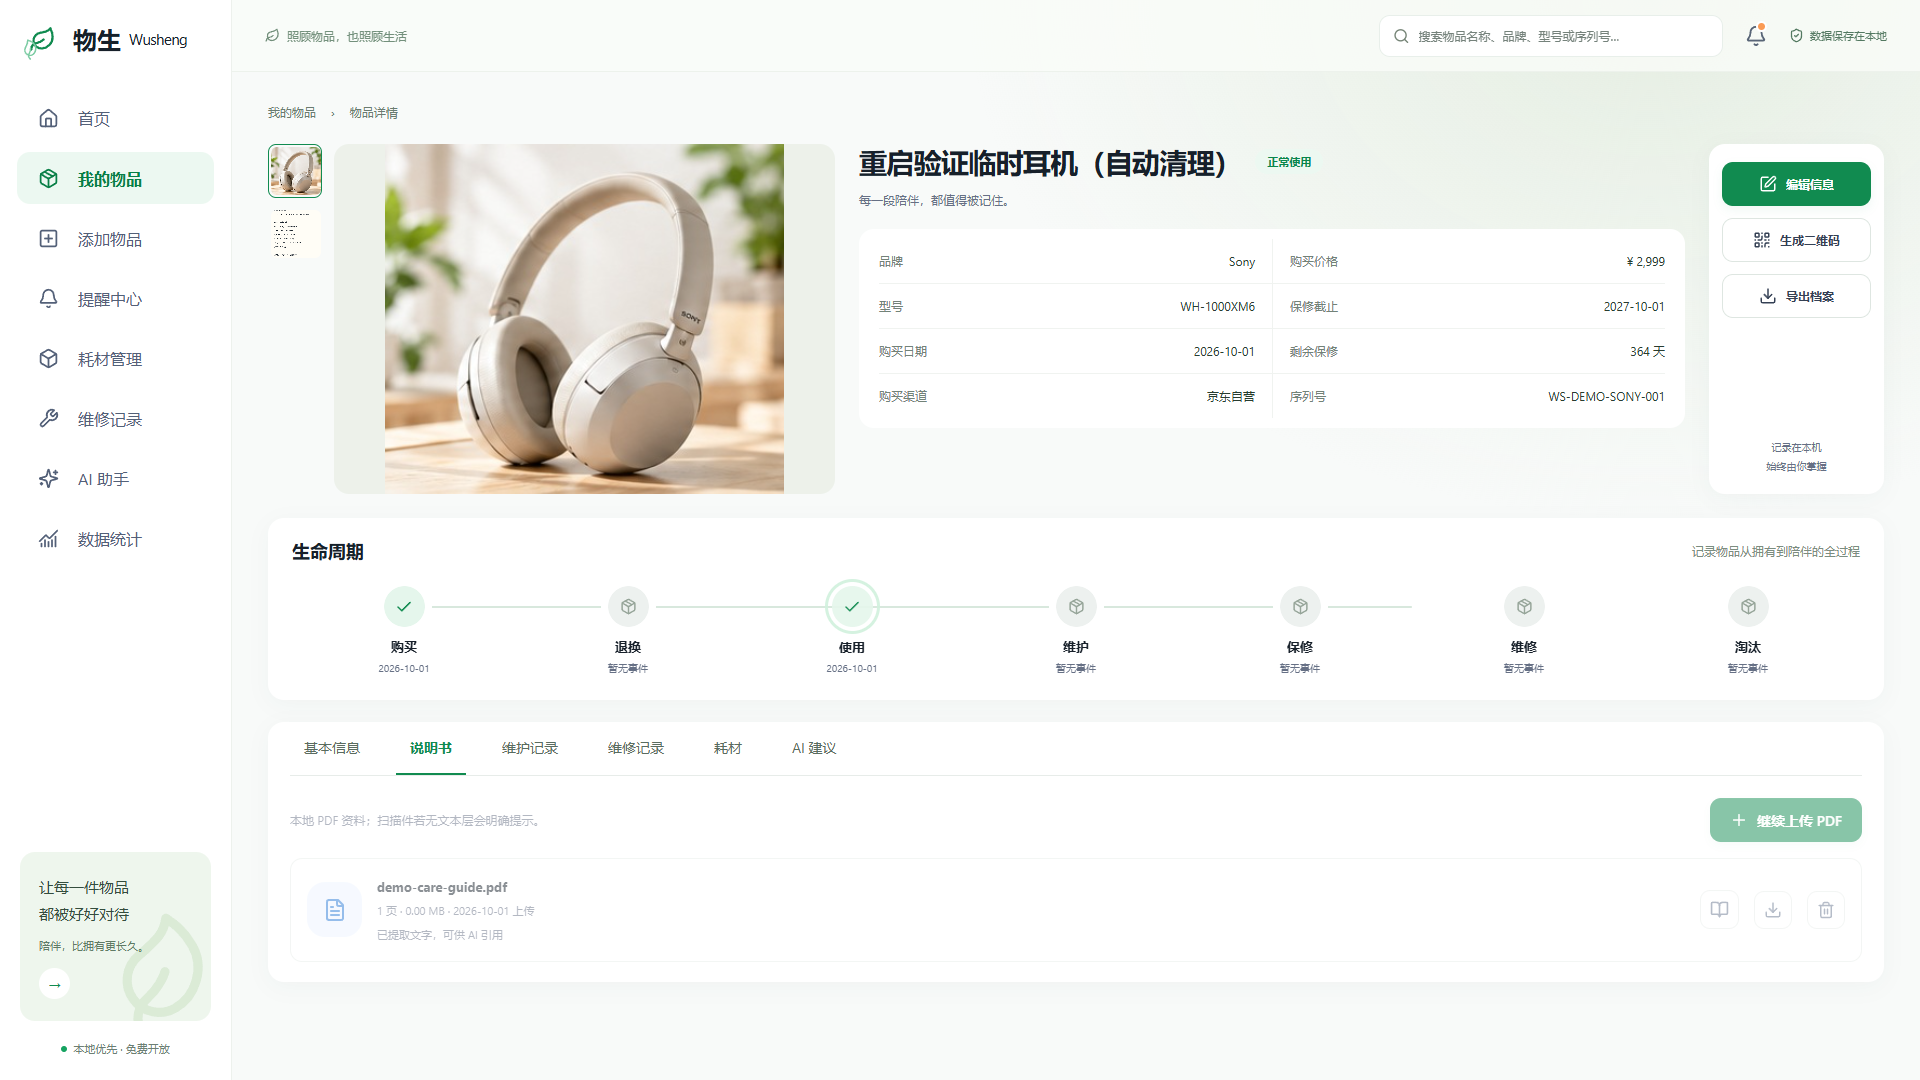
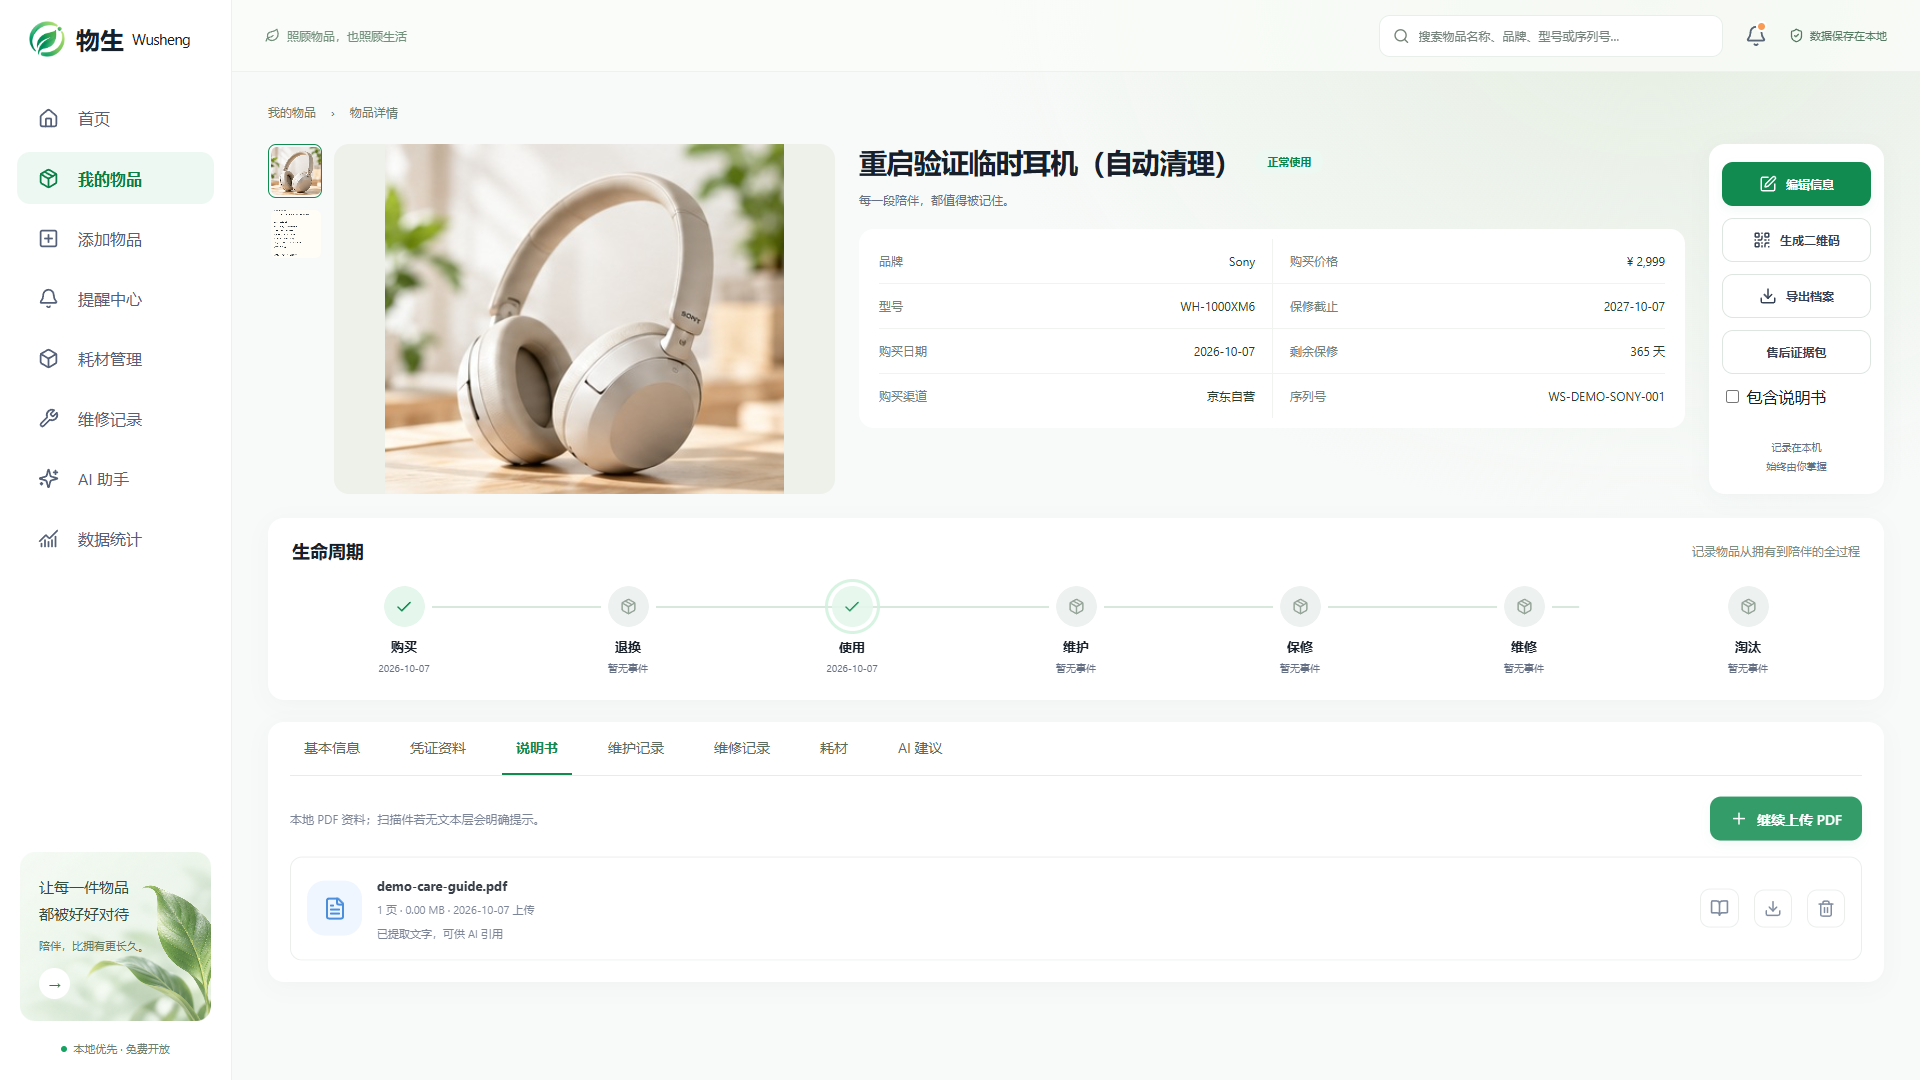
docs: record green CI and clean-clone release acceptance

diff --git a/docs/competition/release_v2_acceptance.md b/docs/competition/release_v2_acceptance.md
@@ -1,0 +1,45 @@
+# 功能终版验收（2026-10-07）
+
+仓库：https://github.com/3331083641-prog/wusheng ，Public / main。此次验证的业务代码提交为 `0ccc9ba6b3654ffe9d6e9a123b52b1066ebdae23`，后续提交仅更新验收文档和 CI 徽章。
+
+## 已接通的工作流
+
+| 范围 | 实现及边界 | 主要源码 |
+|---|---|---|
+| 一物一码 | 默认本机模式不生成手机不可用二维码；LAN 动态私人 IPv4、单端口生产 SPA、安全随机令牌、只读投影、序列号掩码、稳定令牌/重生成/撤销/PNG。管理 API 限本机，不改防火墙 | backend/sharing.py、ShareItem.tsx、ShareQR.tsx、scripts/start_lan.ps1 |
+| 凭证 | product / receipt / label / manual_image / invoice / package / warranty_card / other；后置原图上传、分类、删除；封面回退；字段候选/当前值/原文/置信度/图片/人工修改 | attachments.py、EvidenceCenter.tsx |
+| PDF | 文本层 pypdf，扫描页 pypdfium2 + RapidOCR；用户触发，text_ready / needs_ocr / ocr_processing / ocr_ready / ocr_failed；失败保留原件 | storage.py、manual_ocr.py、DocumentCard.tsx |
+| 本机 AI | evidence 默认；可选 Ollama、OpenAI-compatible；HTTP 回环限定，相关有限证据、当前 Item 隔离、来源列表、危险维修拒绝；故障回退 | ai_engine.py、context.py、AIChat.tsx |
+| 售后包 | ZIP 含 JSON 档案、维修维护生命周期、原图、可选说明书、中文摘要 PDF、SHA256 manifest；不含磁盘绝对路径 | evidence_pack.py |
+| 纠错 | 维护编辑/删除及重算；消耗和补货历史/撤销，拒绝负库存；维修费用/说明/方式更正，状态严格顺序 | corrections.py、RecordTools.tsx |
+| 提醒 | 全部/单条待处理 ICS；用户主动授权浏览器通知。关闭应用后依赖系统日历 | calendar_export.py、NotificationOptIn.tsx |
+| 备份 | 数据库一致快照与引用附件 ZIP、路径/大小/版本/SQLite/哈希校验、恢复前备份、失败回滚。单进程运行；恢复保留旧附件 | backup_restore.py、LocalData.tsx |
+| 预测 | low/medium/high 数据质量、有效记录数/观察周期/波动依据、经验区间；不宣称统计置信区间 | consumptionPrediction.py |
+| PWA | manifest 与静态 JS/CSS Service Worker，在 localhost 生产页实际注册；不缓存档案/PDF。拍照入口通过原生 filechooser + capture=environment | main.tsx、manifest.webmanifest、sw.js、ImageUploader.tsx |
+
+## 实际验证
+
+- 本地与冷克隆后端均 71 passed；浏览器均完整 19 passed；lint/build 通过；10 件物品与 6 件耗材图片检查通过。
+- Linux Actions 完整通过后端 71 项、lint/build：[CI](https://github.com/3331083641-prog/wusheng/actions/runs/37573023368)。最终提交状态以 README 的实时徽章为准。
+- `D:\wusheng-v2-release-test` 从 GitHub 重克隆，依 README 的 setup/start/start_lan 重新安装和启动；Demo/EvidenceProvider、只读 LAN、QR PNG 解码、PDF、售后、备份、耗材、提醒均经过真实接口与浏览器测试。
+- 两张原图、一份 PDF 在真实服务重启及浏览器刷新后仍可读取，SHA256 一致；见 local-files/restart-verification.json。
+- 本机已有 Qwen3-VL-4B-Instruct 两次真实证据问答通过；未下载或提交权重；OpenAI-compatible 用模拟协议验证，未连接实际兼容服务。模型验证见 local_model_validation.json。
+- OCR 基准实际执行，3 张合成英文标签、15 字段、14 完全匹配；precision/recall/F1=0.9333；不是真实票据大样本准确率。
+- 对发布文件及全部可达 Git 文本 blob 执行基础密钥/本机用户路径扫描，未发现密钥或本机用户目录；未提交运行数据库、PDF、小票、模型权重或大于 10MB 的文件。第三方许可原文保留，无新增直接 GPL/AGPL 组件；依赖许可与素材边界见 THIRD_PARTY.md。
+- 原项目 14 张既有业务表与修改前备份一致；测试只写隔离合成数据。未强推、未重写 Git 历史。
+
+## 未完成与问题记录
+
+真实手机扫码/相机、HTTPS/PWA 实机安装、中文复杂票据大样本评测、生成模型大样本质量评测、无文字物品视觉识别、应用关闭后的后台通知未完成。普通 LAN HTTP 不承诺 PWA 可安装。扫描 OCR 最多50页，不提供实时精确百分比；大任务会占用单进程档案操作门控。
+
+首轮 CI 的测试目录父目录缺失已修复；冷克隆首轮 Windows Node worker 以 native code 3221226505 异常退出，完整重跑19组通过，根因未确认。保留这些结果，不伪称首轮全绿或物理手机测试通过。Starlette/httpx 有一条已有测试适配弃用警告，npm 安装有锁定 ESLint 版本弃用提示，npm audit 为0漏洞。
+
+## 手机人工验收
+
+1. 电脑在仓库根目录运行 `powershell -ExecutionPolicy Bypass -File .\scripts\start_lan.ps1`。
+2. 电脑与手机连接同一私人 Wi-Fi。
+3. 手机先打开脚本动态输出的 `http://<电脑LAN-IP>:8000`，确认网页可到达；管理数据仍限电脑本机。
+4. 在电脑 `http://127.0.0.1:8000` 打开某件物品。
+5. 选择“生成二维码”，确认局域网模式，点击“生成只读二维码”。
+6. 手机扫码，进入 `/share/<token>`，应可查看、不能修改。
+7. 在电脑撤销或重新生成；旧码应失效。若不能打开，先核对私人网络防火墙放行，再检查两端 Wi-Fi、访客/AP 隔离和选中的 LAN 适配器地址；脚本不替你修改系统。

diff --git a/docs/competition/test_results.md b/docs/competition/test_results.md
@@ -19,7 +19,15 @@
 
 本轮无新增页面错误，负例 HTTP 返回为预期校验结果。测试使用合成数据库，不修改用户数据。实际模型仅验证接口与两次证据问答，不是大样本质量基准。手机相机、手机真实扫码和 HTTPS/PWA 安装尚需实机复核；只读移动页与二维码解码是浏览器自动化验证。默认档案规则继续可用；应用关闭后的提醒依赖导出的系统日历。下方初期限制是历史记录，扫描 OCR、模型接口及只读 LAN 分享已经由本轮实现取代。
 
-## 最新发布验收：2026-10-06
+## 本轮 CI 与冷克隆：2026-10-07
+
+本轮公开 main 的 Linux CI 已通过 71 项后端测试、前端 lint 与 build。Windows 冷克隆依 README 重新安装锁定依赖，后端 71 项、前端 build/lint、浏览器 19 组以及物品/耗材高清图检查通过；start.ps1 默认启动生成 10 件 Demo，EvidenceProvider 正常；start_lan.ps1 单端口生产 SPA 与 LAN 客户端只读访问正常，远程管理 API 返回 403；localhost 生产页的 manifest 与 Service Worker 注册也已验证。
+
+冷克隆额外运行真实服务重启：新建合成档案的 2 张原图与 1 份 PDF 重启后仍可读取、SHA256 一致，浏览器刷新及说明书助手引用通过，控制台错误列表为空，测试档案与附件随后同步删除；见 local-files/restart-verification.json。原项目 14 张既有业务表逐表与修改前备份一致，未删除或修改真实用户记录。
+
+过程问题如实保留：首轮 CI 因干净目录没有 tmp/ 父目录失败，已在测试配置中创建父目录并验证；冷克隆首轮浏览器运行中 Node worker 以 Windows native code 3221226505 异常退出，未产生业务断言失败，随后完整 19 组重跑通过。未确认该原生进程退出的根因，不据此声称自动化在所有 Windows 运行时绝无偶发问题。
+
+## 上轮发布验收：2026-10-06
 
 图片草稿/建档、PDF 上传与查看/下载/删除、六种耗材关联跳转已接通，保持既有视觉与业务数据。
 

diff --git a/README.md b/README.md
@@ -1,5 +1,7 @@
 # 物生 Wusheng
 
+[![CI](https://github.com/3331083641-prog/wusheng/actions/workflows/ci.yml/badge.svg?branch=main)](https://github.com/3331083641-prog/wusheng/actions/workflows/ci.yml)
+
 **AI 驱动的家庭物品全生命周期智能管理平台**
 
 参赛方向：2026 第八届全球校园人工智能算法精英大赛 AIC「AI+开源」算法主题赛 · 开源赋能的 AI 应用创新 / 日常生活。团队名称：物生智联。方向与开源资源披露要求参照[组委会赛事通知](https://www.aicomp.cn/notice/notice-3/4890.html)；技术报告及具体提交规则以官网通知附件为准。
